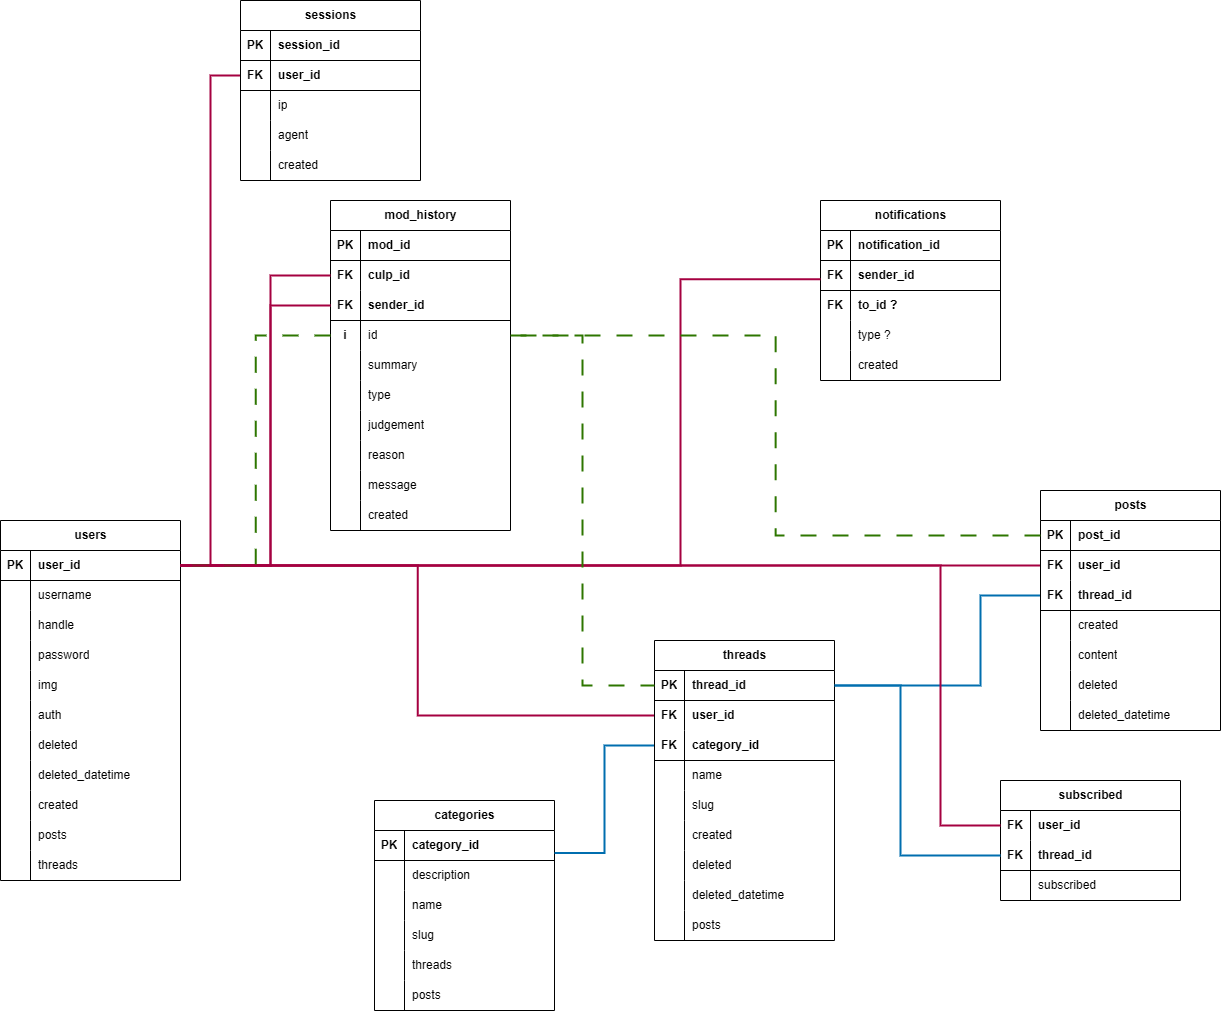
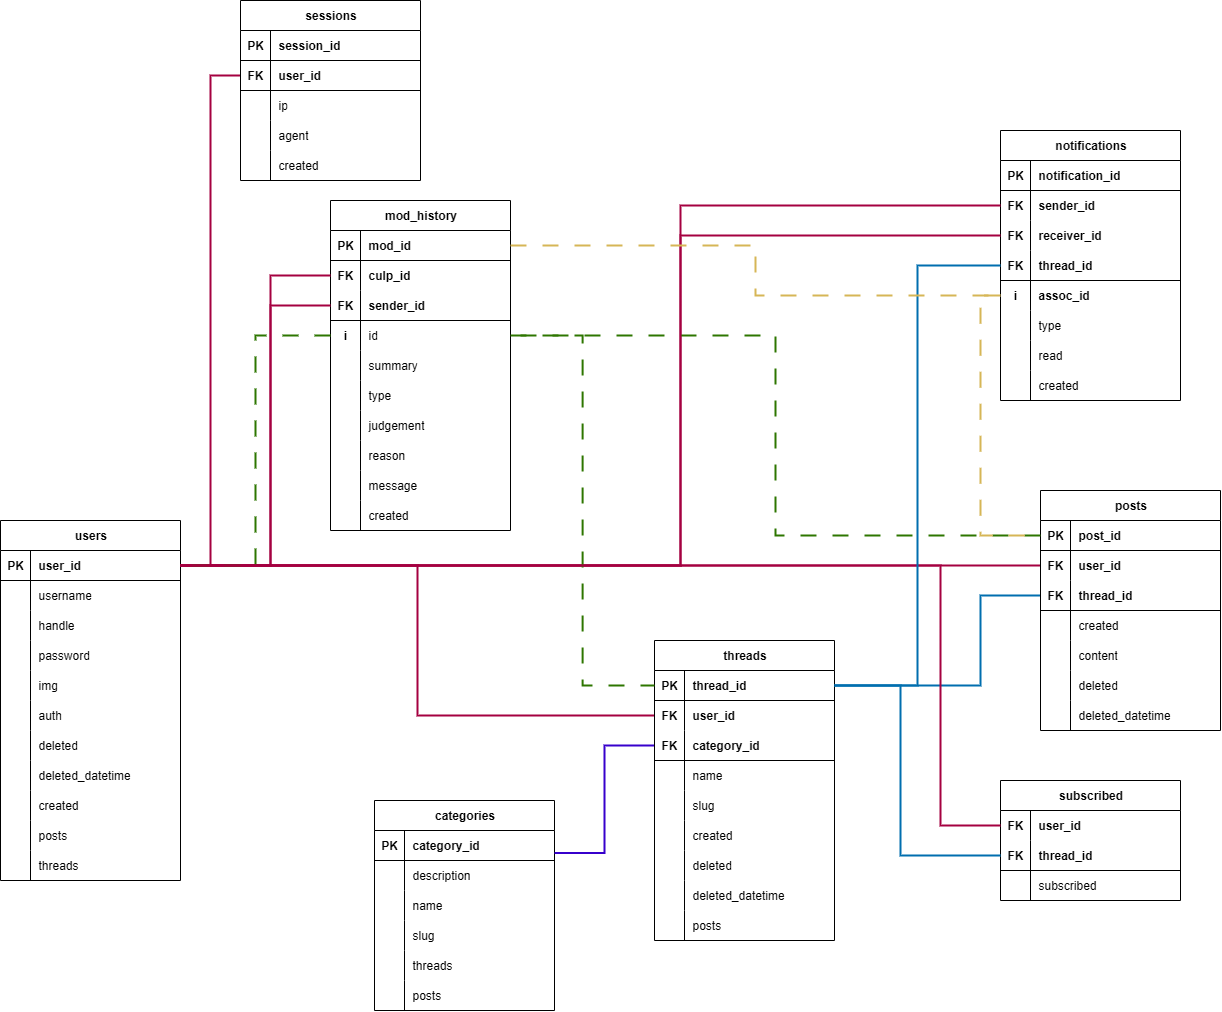
Hiding post notification when post deleted by own user or by moderator

diff --git a/src/functions/require/notifications.php b/src/functions/require/notifications.php
@@ -8,7 +8,7 @@ function NewNotifCount(string $user_id = "") : array {
 
     $conn = getConn();
 
-    $sql = "SELECT COUNT(*) AS total FROM `notifications` WHERE `receiver_id` = '$user_id' AND `read` = 0";
+    $sql = "SELECT COUNT(*) AS total FROM `notifications` WHERE `receiver_id` = '$user_id' AND `read` = 0 AND `deleted` = 0";
     $result = $conn->query($sql);
     return [true, (int)$result->fetch_assoc()["total"]];
 }
@@ -25,6 +25,7 @@ function getNotifications(string $user_id = "", int $page = 0) : array {
     $sql = "SELECT 
                 n.type, 
                 n.read,
+                n.datetime,
                 u.handle, 
                 u.username,
                 t.name,
@@ -39,7 +40,8 @@ function getNotifications(string $user_id = "", int $page = 0) : array {
                 threads t
             ON
                 t.id = n.thread_id
-            WHERE n.receiver_id = '$user_id'
+            WHERE n.receiver_id = '$user_id' AND n.deleted = 0
+            ORDER BY n.datetime DESC
             LIMIT 20 OFFSET $offset";
 
     $result = $conn->query($sql);
@@ -82,7 +84,9 @@ function genForPost(array $item) : string {
     $username = $item["username"];
     $slug = $item["slug"];
     $name = $item["name"];
+    $dt = $item["datetime"];
     return "<span class=\"notification-item post\">
+                <span class=\"datetime\">$dt</span>
                 <a href=\"/user/$handle\">$username</a>
                 posted on
                 <a href=\"/thread/$slug\">$name</a>
@@ -121,6 +125,31 @@ function markAsRead(string $user_id = "") : array {
     $sql = "UPDATE `notifications` SET `read` = 1 WHERE `read` = 0 AND receiver_id = '$user_id'";
     if($conn->query($sql) === FALSE) {
         return [false, "", "RN0"];
+    }
+
+    return [true];
+}
+
+function setDelNotif(string $assoc_id = "", int $type = 10, bool $del = true) : array {
+    if($assoc_id === "") {
+        return [false, "args"];
+    }
+
+    if($type > 3 || $type < 0) {
+        return [false, "args"];
+    }
+
+    $conn = getConn();
+
+    if($del) {
+        $delVal = 1;
+    } else {
+        $delVal = 0;
+    }
+
+    $sql = "UPDATE `notifications` SET deleted = $delVal WHERE `assoc_id` = '$assoc_id' AND `type` = $type";
+    if($conn->query($sql) === FALSE) {
+        return [false, "", "RN1"];
     }
 
     return [true];

diff --git a/src/api/delete/deletePost.php b/src/api/delete/deletePost.php
@@ -3,6 +3,7 @@ $path = $_SERVER['DOCUMENT_ROOT'];
 include $path . '/functions/.connect.php' ;
 include $path . '/functions/validateSession.php';
 include $path . '/functions/moderation.php' ;
+include $path . '/function/require/notifications' ;
 include $path . '/functions/statCount.php';
 include $path . '/functions/errors.php' ;
 
@@ -48,7 +49,7 @@ function response() {
     }
 
     $row = $result->fetch_assoc();
-    $clearance = $row['clearance'];
+    $clearance = (int)$row['clearance'];
     $post_user_id = $row['user_id'];
     $user_id === $_SESSION["user_id"];
 
@@ -64,30 +65,36 @@ function response() {
         }
     }
 
-    if($post_user_id === $user_id || $clearance >= 1) {
-        $err = jsonEncodeErrors(countForPost($id, false));
-        if($err !== "") {
-            return $err;
-        }
-
-        $type = 1;
-
-        if($post_user_id !== $user_id) {
-            $type = 2;
-            // Push onto history
-            $err = jsonEncodeErrors(createHistory(0, 2, $id, $user_id, $reason, $message));
-            if($err !== "") {
-                return $err;
-            }
-        }
-
-        // (Soft) delete post
-        $err = jsonEncodeErrors(deletePost($id, $type, false));
-        if($err !== "") {
-            return $err;
-        }     
-    } else {
+    if($post_user_id !== $user_id && $clearance == 0) {
         return jsonErr("auth");
+    }
+
+    $err = jsonEncodeErrors(countForPost($id, false));
+    if($err !== "") {
+        return $err;
+    }
+
+    $type = 1;
+
+    if($post_user_id !== $user_id) {
+        $type = 2;
+        // Push onto history
+        $err = jsonEncodeErrors(createHistory(0, 2, $id, $user_id, $reason, $message));
+        if($err !== "") {
+            return $err;
+        }
+    }
+
+    // (Soft) delete post
+    $err = jsonEncodeErrors(deletePost($id, $type, false));
+    if($err !== "") {
+        return $err;
+    }
+
+    // Delete notification(s)
+    $err = jsonEncodeErrors(setDelNotif($id, 0, true));
+    if($err !== "") {
+        return $err;
     }
 
     return pass();

diff --git a/src/basic/menu.php b/src/basic/menu.php
@@ -25,8 +25,10 @@ function generateMenu() {
         }
         
         $notifClass = "";
+        $profileSub = "";
         if($notifs === 0) {
             $notifClass = "none";
+            $profileSub = "notifications";
         }
     }
     
@@ -41,7 +43,7 @@ function generateMenu() {
             ?>
             <a class="menu-button home menu-left" href="/"><?= getLang("home") ?></a>
             <span class="mode menu-button menu-left" onclick="toggle()"><?= getLang("togMode") ?></span>
-            <a class="menu-button split-right menu-right" href="/profile/">
+            <a class="menu-button split-right menu-right" href="/profile/<?= $profileSub ?>">
                 <?= $info["handle"]; ?>
                 <span class="notifications <?= $notifClass; ?>"><?= $notifs; ?></span>
             </a>

diff --git a/src/api/thread/sendPost.php b/src/api/thread/sendPost.php
@@ -83,12 +83,14 @@ function response() {
         while($row = $result->fetch_assoc()) {
             $rec_id = $row["user_id"];
             if($rec_id === $user_id) continue;
-            
+
+            $notif_id = uniqid(rand(), true);
+
             $sql = "INSERT INTO 
                         notifications 
-                        (sender_id, receiver_id, type, thread_id) 
+                        (notification_id, sender_id, receiver_id, type, thread_id) 
                     VALUES
-                        ('$user_id', '$rec_id', 0, '$thread_id')";
+                        ('$notif_id', '$user_id', '$rec_id', 0, '$thread_id')";
             if($conn->query($sql) === FALSE) {
                 return jsonErr("", "SP3");
             }

diff --git a/src/profile/notifications.php b/src/profile/notifications.php
@@ -38,8 +38,6 @@ include $path . '/functions/validateSession.php';
         if(validateSession()) {
             $user_id = $_SESSION["user_id"];
 
-            echo "<button>Mark all as read</button>";
-
             echo '<div id="notifications-container">';
             echo generateNotifsHTML($user_id);
             markAsRead($user_id);

diff --git a/README.md b/README.md
@@ -135,6 +135,37 @@ Slugs are automatically generated for threads (for categories they need to be ma
 
 The `subscribed` table enables users to subscribe or unsubscribe form threads. If there is no entry yet, users will be auto-subscribed if they post for the first time on a thread.
 
+### Notifications
+
+Notifications are created upon:
+
+- Posting in a thread
+- Mod deleted post (culprit only)
+- Mod deleted thread (culprit only)
+- User promotion
+- User Demotion
+
+And deleted/updated upon:
+
+- Moderation undo action
+- Self deleted post
+- Expired
+
+The `type`s are:
+
+| Value | Meaning    |
+| ----- | ---------- |
+| 0     | Post       |
+| 1     | Del Post   |
+| 2     | Del Thread |
+| 3     | Promotion  |
+| 4     | Demotion   |
+
+(TBD) <br>
+
+`post_id` and `mod_id` are stored in the `assoc_id` column. <br>
+The `deleted` makes sure that when moderators are changing the visibility of posts with undo/redo, it won't re-generate notifications but instead preserve the old one.
+
 ## Tables
 
 (These may not be up to date and will be modified in the future)
@@ -289,4 +320,20 @@ ALTER TABLE `mod_history`
   ADD KEY `id` (`id`),
   ADD KEY `recent` (`type`,`id`,`judgement`,`created`);
 COMMIT;
+```
+
+### Notifications
+
+```SQL
+CREATE TABLE `notifications` (
+  `notification_id` varchar(33) NOT NULL,
+  `read` tinyint(1) NOT NULL DEFAULT 0,
+  `sender_id` varchar(33) NOT NULL,
+  `receiver_id` varchar(33) NOT NULL,
+  `type` int(1) NOT NULL DEFAULT 0,
+  `thread_id` varchar(33) DEFAULT '0',
+  `assoc_id` varchar(33) NOT NULL,
+  `deleted` tinyint(1) NOT NULL DEFAULT 0,
+  `datetime` datetime NOT NULL DEFAULT current_timestamp()
+) ENGINE=MyISAM DEFAULT CHARSET=latin1 COLLATE=latin1_swedish_ci;
 ```

diff --git a/TODO.md b/TODO.md
@@ -67,3 +67,7 @@
 - [ ] Consider seperating user from post data (reducing file size)
 - [ ] Re-organize all include statements to make sure they are only included ONCE (relying on !function_exists possible, but unclean)
 - [ ] Standardize introduction of session and when it reads the user_id
+
+## Notifications
+
+- [ ] Maybe include extra column for extra IDs -> e.g. post id so they can be hidden again upon deletion?
